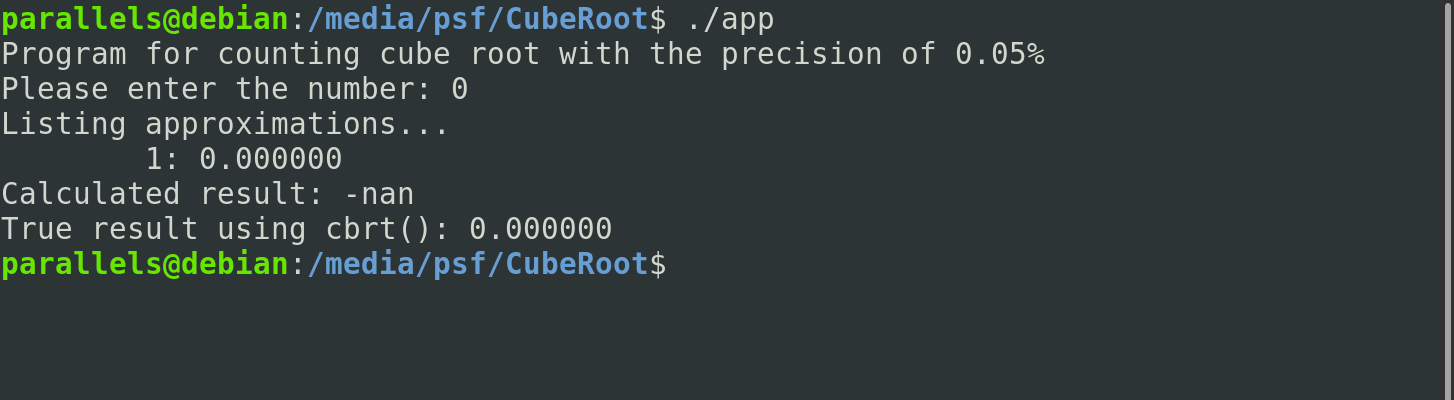
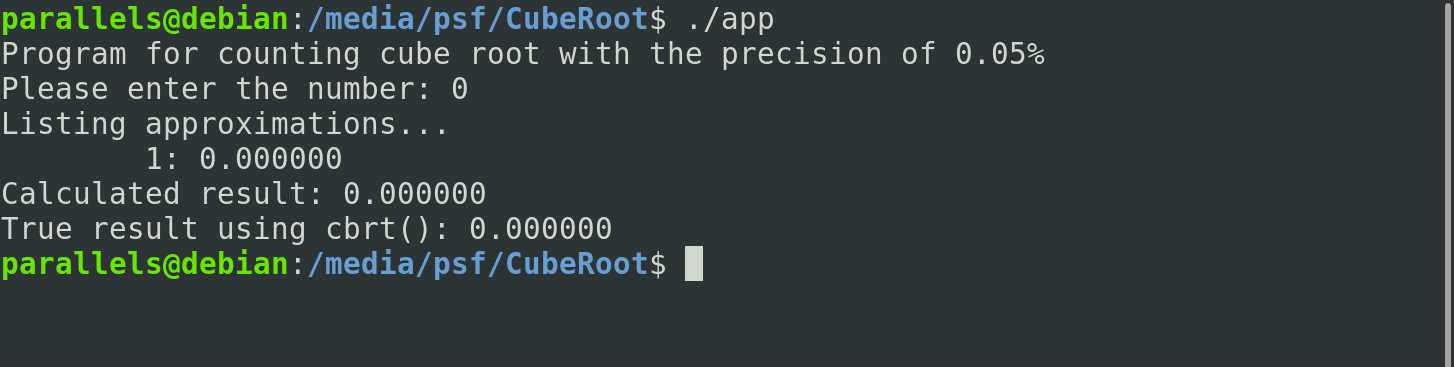
0 situation updated

Changed region(s): [[0.0, 0.03, 0.7428, 0.7793]]

diff --git a/README.md b/README.md
@@ -27,7 +27,7 @@
 ![picture 2](https://raw.githubusercontent.com/OlegStanKoptev/CubeRoot/master/images/2.png)
 Исходное число: -27, результат: -3.000000
 ![picture 3](https://raw.githubusercontent.com/OlegStanKoptev/CubeRoot/master/images/3.png)
-Исходное число: 0, результат: nan (потому что при сравнении точности есть деление на значение элемента)
+Исходное число: 0, результат: 0
 ![picture 4](https://raw.githubusercontent.com/OlegStanKoptev/CubeRoot/master/images/4.png)
 Исходное число: 99999999999999, результат: 46415.888340
 ![picture 5](https://raw.githubusercontent.com/OlegStanKoptev/CubeRoot/master/images/5.png)
@@ -66,6 +66,7 @@ section '.data' writable
     true_val        dq  ?
     counter         dd  0
 
+    zero            dd  0
     two             dd  2
     three           dd  3
     hundred         dd  100
@@ -157,6 +158,12 @@ start:
         call getNext
         movsd qword [next_x], xmm0
 
+        ; if (next_x == null) goto reset_x;
+        fld qword [next_x]
+        fcomi st1
+        jp reset_x
+        fstp st0
+
         ; while (abs(next_x - x) * 100 / next_x > epsilon)
         fld qword [epsilon]
         fld qword [next_x]
@@ -182,6 +189,9 @@ start:
         mov [counter], edx
 
         jmp .iter
+reset_x:
+    fild dword [zero]
+    fstp qword [next_x]
 exit:
     ret
 
